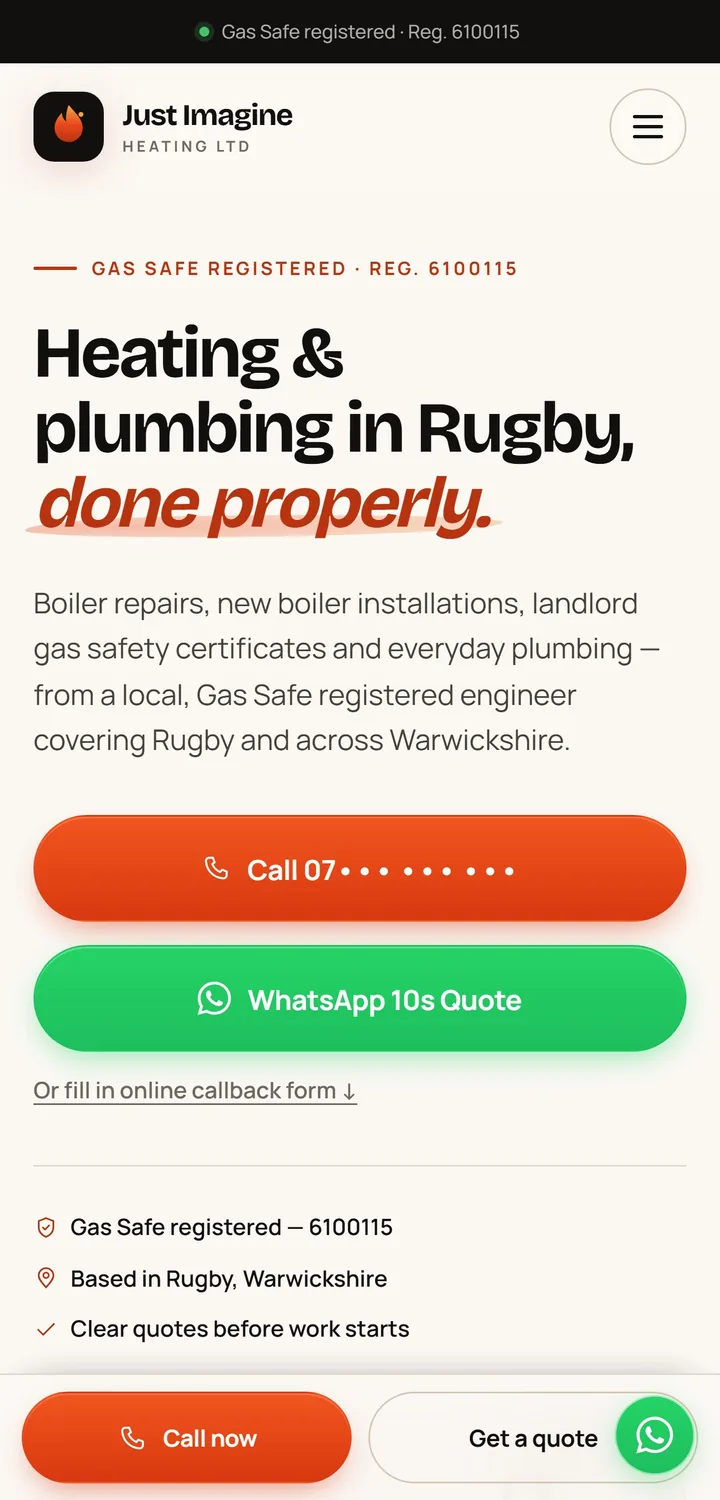
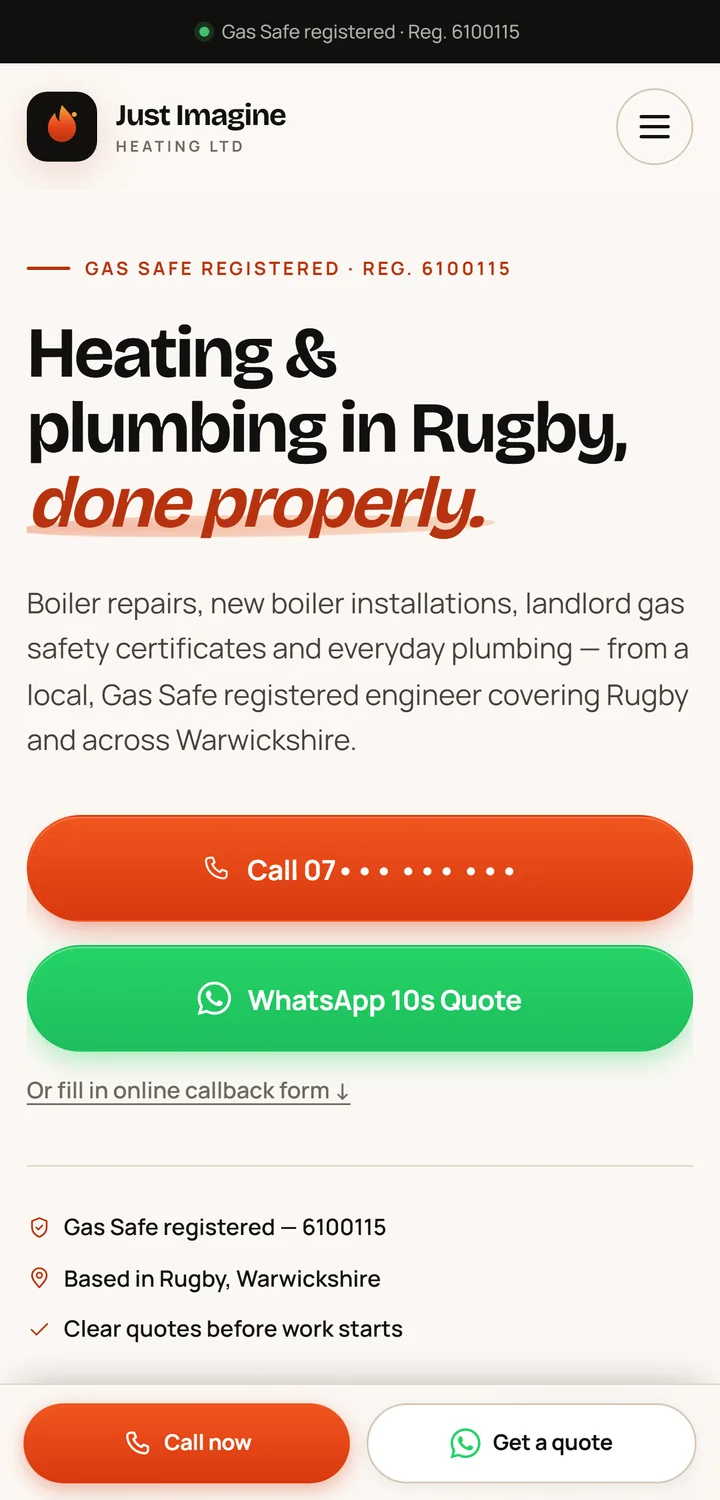
feat(home): surface Just Imagine case, drop drag slider and comparison table, sharp updates

diff --git a/pages/Home.tsx b/pages/Home.tsx
@@ -14,16 +14,12 @@ import {
 } from 'lucide-react';
 import SEO from '../components/SEO';
 import OptimizedImage from '../components/OptimizedImage';
-import ShopFastMockup from '../components/ShopFastMockup';
 import EdelMockup from '../components/EdelMockup';
 import ProjectScopeBuilder from '../components/ProjectScopeBuilder';
 import BookingModal from '../components/BookingModal';
 import TrustBadges from '../components/TrustBadges';
 import InstantWebsiteAudit from '../components/InstantWebsiteAudit';
-import BeforeAfterSlider from '../components/BeforeAfterSlider';
-import ArchitectureComparisonMatrix from '../components/ArchitectureComparisonMatrix';
 import SpotlightCard from '../components/SpotlightCard';
-import RemotionContributionCard from '../components/RemotionContributionCard';
 
 const Home: React.FC = () => {
   const [isBookingOpen, setIsBookingOpen] = React.useState(false);
@@ -60,7 +56,7 @@ const Home: React.FC = () => {
       tech: ['Next.js', 'Stripe / bKash', '100/100 SEO'],
       link: '/shopfast',
       liveUrl: 'https://cryptowebbuild.com/shopfast',
-      mockup: 'shopfast',
+      img: '/projects/shopfast.webp',
     },
   ];
 
@@ -418,11 +414,6 @@ const Home: React.FC = () => {
         </div>
       </section>
 
-      {/* STAGE 2.5: INTERACTIVE SPEED & REVENUE PROOF SLIDER */}
-      <section className="max-w-7xl mx-auto px-4 sm:px-6 cv-auto">
-        <BeforeAfterSlider />
-      </section>
-
       {/* STAGE 3: TOP 3 VERIFIED PRODUCTION PROJECTS */}
       <section className="max-w-7xl mx-auto px-4 sm:px-6 cv-auto">
         <div className="flex flex-col md:flex-row md:items-end justify-between mb-8 gap-4">
@@ -453,11 +444,9 @@ const Home: React.FC = () => {
               className="group rounded-3xl glass-panel overflow-hidden flex flex-col justify-between hover:border-indigo-500/40 transition-colors"
             >
               <div>
-                <div className="relative h-52 overflow-hidden bg-slate-100 dark:bg-[#090A0F] border-b border-slate-200/80 dark:border-white/[0.06]">
-                  {project.mockup === 'shopfast' ? (
-                    <ShopFastMockup className="w-full h-full object-cover" />
-                  ) : project.mockup === 'edel' ? (
-                    <EdelMockup className="w-full h-full object-cover" />
+                <div className="relative aspect-[16/10] overflow-hidden bg-slate-100 dark:bg-[#090A0F] border-b border-slate-200/80 dark:border-white/[0.06]">
+                  {project.mockup === 'edel' ? (
+                    <EdelMockup className="w-full h-full object-cover" showControls={false} hideBadges />
                   ) : (
                     <img
                       src={project.img}
@@ -472,7 +461,7 @@ const Home: React.FC = () => {
                 </div>
 
                 <div className="p-6">
-                  <div className="flex items-center justify-between gap-2 text-xs font-mono tabular-nums text-slate-500 dark:text-slate-400 mb-2">
+                  <div className="flex flex-col gap-1 sm:flex-row sm:items-center sm:justify-between sm:gap-2 text-xs font-mono tabular-nums text-slate-500 dark:text-slate-400 mb-2">
                     <span>{project.category}</span>
                     <span className="font-bold text-emerald-600 dark:text-emerald-400">{project.metric}</span>
                   </div>
@@ -515,16 +504,80 @@ const Home: React.FC = () => {
             </article>
           ))}
         </div>
+
+        {/* LOCAL SERVICE FEATURE — FULL-WIDTH CARD */}
+        <article className="mt-6 rounded-3xl glass-panel overflow-hidden group hover:border-indigo-500/40 transition-colors">
+          <div className="grid lg:grid-cols-12">
+            <div className="lg:col-span-5 relative bg-slate-100 dark:bg-[#090A0F] border-b lg:border-b-0 lg:border-r border-slate-200/80 dark:border-white/[0.06]">
+              <img
+                src="/projects/justimagine.webp"
+                alt="Just Imagine Heating homepage with a Gas Safe registration, engineer photo and emergency call button"
+                width={1600}
+                height={1000}
+                className="w-full h-full min-h-[220px] sm:min-h-[280px] object-cover object-top group-hover:scale-[1.02] transition-transform duration-500"
+                loading="lazy"
+                decoding="async"
+              />
+            </div>
+
+            <div className="lg:col-span-7 p-6 sm:p-8 flex flex-col justify-between gap-6">
+              <div>
+                <div className="flex flex-wrap items-center gap-2.5 mb-2">
+                  <span className="px-2.5 py-1 rounded-full bg-slate-900/[0.04] dark:bg-white/5 border border-slate-200 dark:border-white/10 text-[10px] font-mono font-bold uppercase tracking-wider text-slate-600 dark:text-slate-300">
+                    Local Service / SEO
+                  </span>
+                  <span className="text-xs font-mono text-slate-500 dark:text-slate-400">Rugby, UK</span>
+                </div>
+                <div className="text-xs font-mono font-bold mb-1 text-emerald-600 dark:text-emerald-400">
+                  Local SEO · Call-first funnel
+                </div>
+                <h3 className="font-display text-2xl font-bold text-slate-900 dark:text-white mt-2 mb-2">
+                  Just Imagine Heating
+                </h3>
+                <p className="text-slate-600 dark:text-slate-400 text-sm leading-relaxed max-w-2xl">
+                  A Gas Safe heating and plumbing site built to win local searches: six service pages, eight town
+                  pages, trust-first proof above the fold, and three ways to start a conversation.
+                </p>
+
+                <div className="grid grid-cols-3 gap-3 mt-5 max-w-md tabular-nums">
+                  {[
+                    { v: '20+', l: 'Pages' },
+                    { v: '8', l: 'Areas' },
+                    { v: '6', l: 'Services' },
+                  ].map((m) => (
+                    <div key={m.l} className="rounded-xl border border-slate-200/80 dark:border-white/[0.06] px-3 py-2">
+                      <div className="font-display font-bold text-lg text-slate-900 dark:text-white">{m.v}</div>
+                      <div className="text-[10px] font-mono uppercase tracking-wider text-slate-500 dark:text-slate-400">{m.l}</div>
+                    </div>
+                  ))}
+                </div>
+              </div>
+
+              <div className="flex flex-wrap items-center gap-2.5">
+                <Link
+                  to="/justimagine"
+                  className="flex-1 sm:flex-none py-2.5 px-5 rounded-xl bg-slate-900 dark:bg-white text-white dark:text-slate-900 font-semibold text-xs text-center hover:opacity-90 transition-opacity whitespace-nowrap"
+                >
+                  Case Study
+                </Link>
+                <a
+                  href="https://cryptowebbuild.github.io/justimagine-preview/"
+                  target="_blank"
+                  rel="noopener noreferrer"
+                  className="py-2.5 px-4 rounded-xl bg-slate-100 dark:bg-white/5 border border-slate-200 dark:border-white/10 text-slate-800 dark:text-white font-semibold text-xs inline-flex items-center gap-1.5 hover:border-indigo-500/40 transition-colors whitespace-nowrap"
+                >
+                  <span>Live Site</span>
+                  <ExternalLink className="w-3.5 h-3.5" />
+                </a>
+              </div>
+            </div>
+          </div>
+        </article>
       </section>
 
       {/* STAGE 3.5: FREE INSTANT SPEED AUDIT TOOL */}
       <section className="max-w-7xl mx-auto px-4 sm:px-6 cv-auto">
         <InstantWebsiteAudit />
-      </section>
-
-      {/* STAGE 3.75: OPEN-SOURCE CORE ENGINEERING (REMOTION PR) */}
-      <section className="max-w-7xl mx-auto px-4 sm:px-6 cv-auto">
-        <RemotionContributionCard />
       </section>
 
       {/* STAGE 4: VERIFIED CLIENT REVIEWS & ROI OUTCOMES */}
@@ -631,9 +684,57 @@ const Home: React.FC = () => {
         </div>
       </section>
 
-      {/* STAGE 5: ARCHITECTURAL COMPARISON (DUAL-MODE: CARDS ON MOBILE, TABLE ON DESKTOP) */}
-      <section className="max-w-7xl mx-auto px-4 sm:px-6 cv-auto">
-        <ArchitectureComparisonMatrix />
+      {/* STAGE 4.5: HOW A BUILD RUNS — FOUR STEPS, NO SURPRISES */}
+      <section className="max-w-7xl mx-auto px-4 sm:px-6 cv-auto space-y-8">
+        <div className="flex flex-col md:flex-row md:items-end justify-between gap-4">
+          <div>
+            <div className="text-xs font-bold uppercase tracking-widest text-indigo-600 dark:text-indigo-400 mb-2">
+              How a Build Runs
+            </div>
+            <h2
+              className="font-display text-2xl sm:text-4xl font-bold text-slate-900 dark:text-white tracking-tight"
+              style={{ textWrap: 'balance' }}
+            >
+              Four steps. No surprises.
+            </h2>
+          </div>
+          <p className="text-sm text-slate-600 dark:text-slate-400 max-w-md">
+            The same sequence on every project, from a single storefront to a multi-role web app.
+          </p>
+        </div>
+
+        <div className="grid grid-cols-1 sm:grid-cols-2 lg:grid-cols-4 gap-6">
+          {[
+            {
+              step: '01',
+              title: 'Scope in writing',
+              desc: 'One call or a WhatsApp thread is enough. You get a fixed scope, a fixed price, and the milestones in writing before anything starts.',
+            },
+            {
+              step: '02',
+              title: 'Working prototype in 48h',
+              desc: 'A clickable Next.js build on a private URL, not a Figma file. You test the real pages and the real checkout flow.',
+            },
+            {
+              step: '03',
+              title: 'Visible weekly builds',
+              desc: 'Staging updates as work lands. Every button, form, and payment path is testable on your own phone while the build is still open.',
+            },
+            {
+              step: '04',
+              title: 'Test, pay the final 50%, own the code',
+              desc: 'You test every flow on staging first. Then the final milestone is due and the full repository transfers to your GitHub.',
+            },
+          ].map((item) => (
+            <div key={item.step} className="rounded-2xl border border-slate-200 dark:border-white/[0.08] bg-white dark:bg-[#11131A] p-6">
+              <div className="text-xs font-mono font-bold text-indigo-600 dark:text-indigo-400 mb-3">{item.step}</div>
+              <h3 className="font-display text-lg font-bold text-slate-900 dark:text-white mb-2 leading-snug">
+                {item.title}
+              </h3>
+              <p className="text-xs sm:text-sm text-slate-600 dark:text-slate-400 leading-relaxed">{item.desc}</p>
+            </div>
+          ))}
+        </div>
       </section>
 
       {/* STAGE 5.5: DUAL-CURRENCY SCOPE & QUOTE CONFIGURATOR */}

diff --git a/components/EdelMockup.tsx b/components/EdelMockup.tsx
@@ -5,12 +5,14 @@ interface EdelMockupProps {
   className?: string;
   defaultView?: 'desktop' | 'mobile';
   showControls?: boolean;
+  hideBadges?: boolean;
 }
 
 export const EdelMockup: React.FC<EdelMockupProps> = ({
   className = '',
   defaultView = 'desktop',
   showControls = true,
+  hideBadges = false,
 }) => {
   const [view, setView] = useState<'desktop' | 'mobile'>(defaultView);
   const liveUrl = 'https://cryptowebbuild.github.io/edel-bangladesh/';
@@ -62,10 +64,15 @@ export const EdelMockup: React.FC<EdelMockupProps> = ({
         </div>
 
         {/* Center: Real SSL Domain Badge */}
-        <div className="flex items-center gap-1.5 bg-black/50 border border-white/[0.06] rounded-md px-2.5 py-1 text-[11px] font-mono text-slate-300 max-w-[200px] sm:max-w-xs truncate">
+        <div
+          className={`items-center gap-1.5 bg-black/50 border border-white/[0.06] rounded-md px-2.5 py-1 text-[11px] font-mono text-slate-300 max-w-[200px] sm:max-w-[280px] ${
+            hideBadges ? 'hidden' : 'hidden sm:flex'
+          }`}
+          title="cryptowebbuild.github.io/edel-bangladesh"
+        >
           <Lock className="w-2.5 h-2.5 text-emerald-400 shrink-0" />
           <span className="truncate text-slate-400">
-            edel.<span className="text-white font-semibold">cryptowebbuild.com</span>
+            cryptowebbuild.github.io/<span className="text-white font-semibold">edel-bangladesh</span>
           </span>
         </div>
 
@@ -109,7 +116,11 @@ export const EdelMockup: React.FC<EdelMockupProps> = ({
             <div className="absolute inset-0 pointer-events-none bg-gradient-to-t from-black/80 via-transparent to-transparent opacity-60" />
 
             {/* Floating Live Conversion Pill */}
-            <div className="absolute bottom-2.5 left-2.5 sm:bottom-3 sm:left-3 flex flex-wrap items-center gap-1.5 sm:gap-2 pointer-events-none">
+            <div
+              className={`absolute bottom-2.5 left-2.5 sm:bottom-3 sm:left-3 flex flex-wrap items-center gap-1.5 sm:gap-2 pointer-events-none ${
+                hideBadges ? 'hidden' : ''
+              }`}
+            >
               <span className="inline-flex items-center gap-1 px-2 sm:px-2.5 py-1 rounded-full text-[10px] sm:text-[11px] font-bold bg-black/85 backdrop-blur-md text-amber-300 border border-amber-500/30 shadow-lg">
                 <Sparkles className="w-3 h-3 text-amber-400" />
                 <span>Edel Luxury Jewel</span>

diff --git a/pages/services/CryptoGrowth.tsx b/pages/services/CryptoGrowth.tsx
@@ -37,6 +37,48 @@ const CryptoGrowth: React.FC = () => {
           </ul>
         </div>
 
+        <div className="bg-white dark:bg-[#1e293b] rounded-[32px] border border-gray-200 dark:border-white/10 overflow-hidden mb-12 shadow-xl">
+          <div className="grid md:grid-cols-2">
+            <div className="bg-gray-100 dark:bg-[#020617] border-b md:border-b-0 md:border-r border-gray-200 dark:border-white/10">
+              <img
+                src="/projects/justimagine-services.webp"
+                alt="Service cards on the Just Imagine Heating website, one per boiler and plumbing job type"
+                width={1600}
+                height={1000}
+                className="w-full h-full object-cover"
+                loading="lazy"
+                decoding="async"
+              />
+            </div>
+            <div className="p-8 md:p-10 flex flex-col justify-center">
+              <div className="text-xs font-bold uppercase tracking-widest text-cyan-600 dark:text-cyan-400 mb-3">
+                Recent local build
+              </div>
+              <h2 className="font-display text-2xl md:text-3xl font-bold text-gray-900 dark:text-white mb-3">
+                Just Imagine Heating, Rugby
+              </h2>
+              <p className="text-gray-600 dark:text-gray-300 leading-relaxed mb-5">
+                A Gas Safe engineer with six services and eight service areas. Every town gets its own page, every
+                service gets its own page, and the call button sits above the fold on mobile.
+              </p>
+              <div className="flex flex-wrap gap-2 mb-6 text-xs font-mono">
+                {['20+ pages', '8 areas', '6 services', 'Schema.org'].map((tag) => (
+                  <span key={tag} className="px-2.5 py-1 rounded-lg border border-gray-200 dark:border-white/10 text-gray-600 dark:text-gray-300">
+                    {tag}
+                  </span>
+                ))}
+              </div>
+              <Link
+                to="/justimagine"
+                className="inline-flex items-center gap-2 text-sm font-bold text-cyan-600 dark:text-cyan-400 hover:text-cyan-500 transition-colors"
+              >
+                Read the case study
+                <span aria-hidden="true">&rarr;</span>
+              </Link>
+            </div>
+          </div>
+        </div>
+
         <div className="flex flex-wrap gap-4">
           <Link
             to="/contact"

diff --git a/pages/Services.tsx b/pages/Services.tsx
@@ -223,8 +223,17 @@ const Services: React.FC = () => {
               </div>
               <div className="flex flex-wrap gap-4 text-sm font-bold mt-8 pt-6 border-t border-gray-100 dark:border-white/10">
                 <Link
-                  to="/services/crypto-growth"
+                  to="/justimagine"
                   className="flex items-center text-blue-600 dark:text-blue-400 hover:text-blue-500 transition-colors"
+                >
+                  <span className="bg-blue-100 dark:bg-blue-900/30 px-2 py-0.5 rounded mr-2 text-xs uppercase">
+                    Case Study
+                  </span>
+                  Just Imagine Heating
+                </Link>
+                <Link
+                  to="/services/crypto-growth"
+                  className="flex items-center text-gray-600 dark:text-gray-400 hover:text-gray-900 dark:hover:text-white transition-colors"
                 >
                   <span className="bg-blue-100 dark:bg-blue-900/30 px-2 py-0.5 rounded mr-2 text-xs uppercase">
                     Service

diff --git a/components/SEO.tsx b/components/SEO.tsx
@@ -182,6 +182,12 @@ const SEO: React.FC<SEOProps> = ({
                 "position": 3,
                 "name": "ShopFast — Headless Next.js E-Commerce",
                 "url": `${siteUrl}/shopfast`
+              },
+              {
+                "@type": "ListItem",
+                "position": 4,
+                "name": "Just Imagine Heating - Local Service SEO & Lead Capture",
+                "url": `${siteUrl}/justimagine`
               }
             ]
           }
